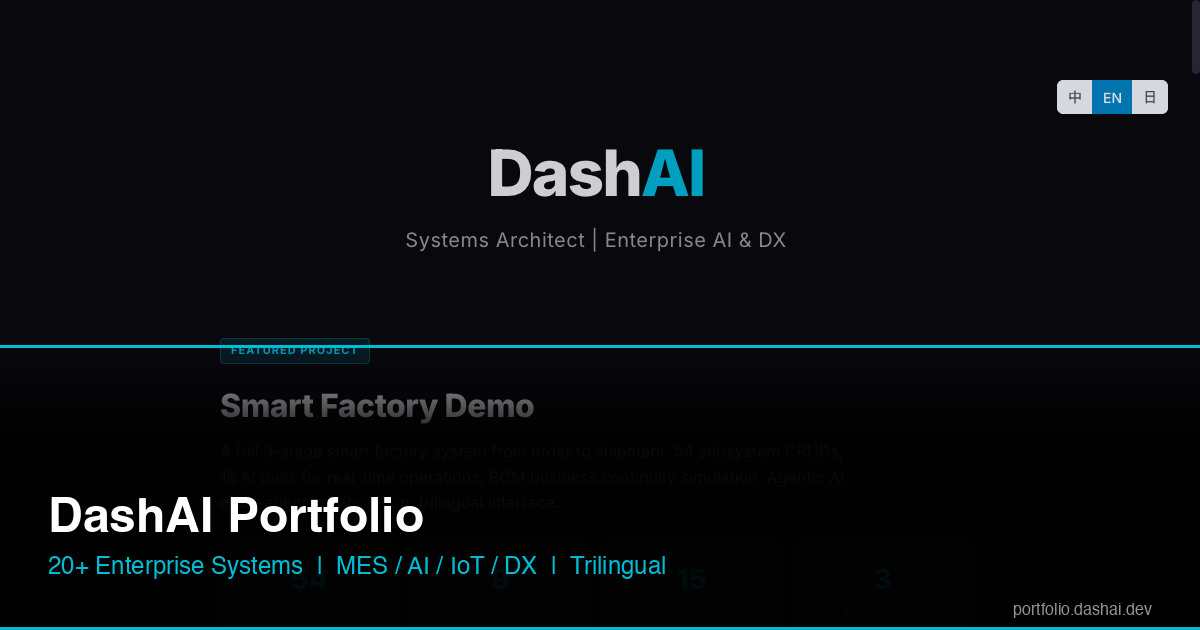
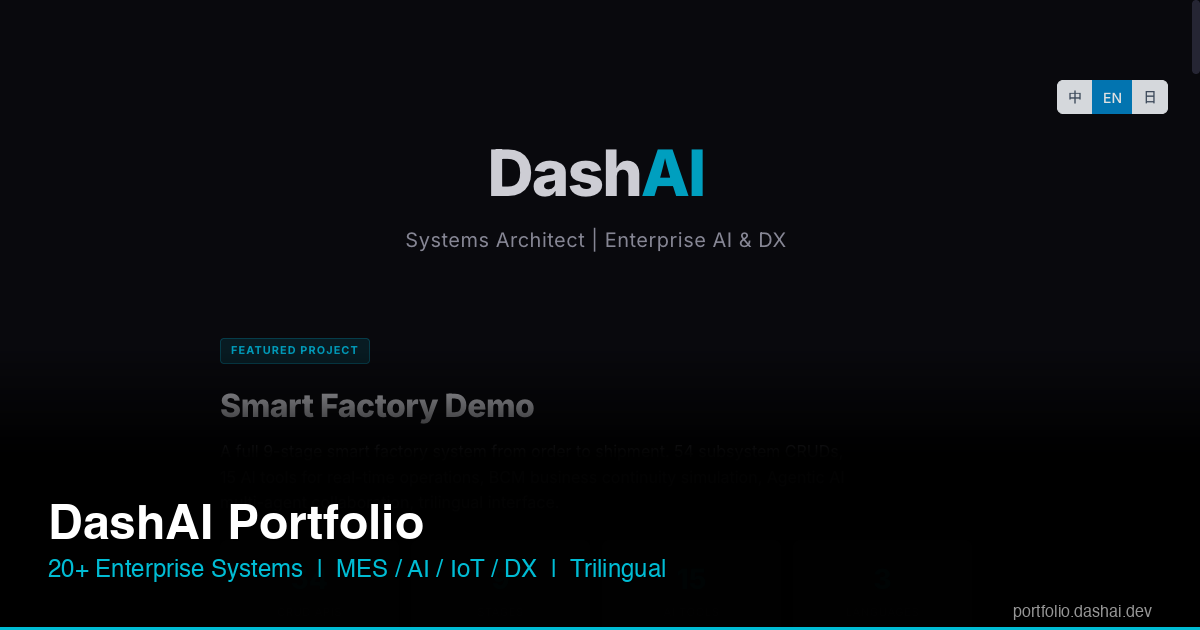
fix: OG 圖移除中間分隔線 + 預設語系改英文

Changed region(s): [[0.0308, 0.7841, 0.555, 0.9349], [0.0, 0.5429, 1.0, 0.573], [0.8325, 0.9651, 0.9558, 0.9952]]

diff --git a/src/composables/useI18n.ts b/src/composables/useI18n.ts
@@ -15,9 +15,6 @@ const messages: Record<Locale, Messages> = {
 function detectLocale(): Locale {
   const saved = localStorage.getItem('dashai-locale')
   if (saved && saved in messages) return saved as Locale
-  const lang = navigator.language
-  if (lang.startsWith('ja')) return 'ja'
-  if (lang.startsWith('zh')) return 'zh-TW'
   return 'en'
 }
 
